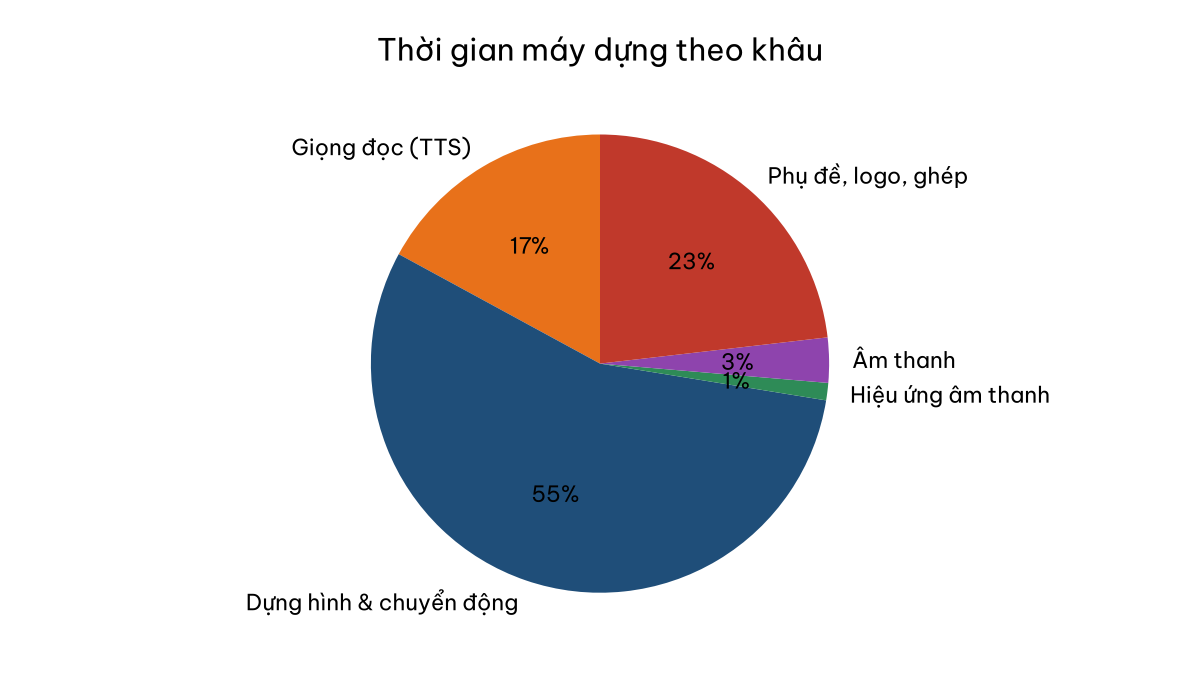
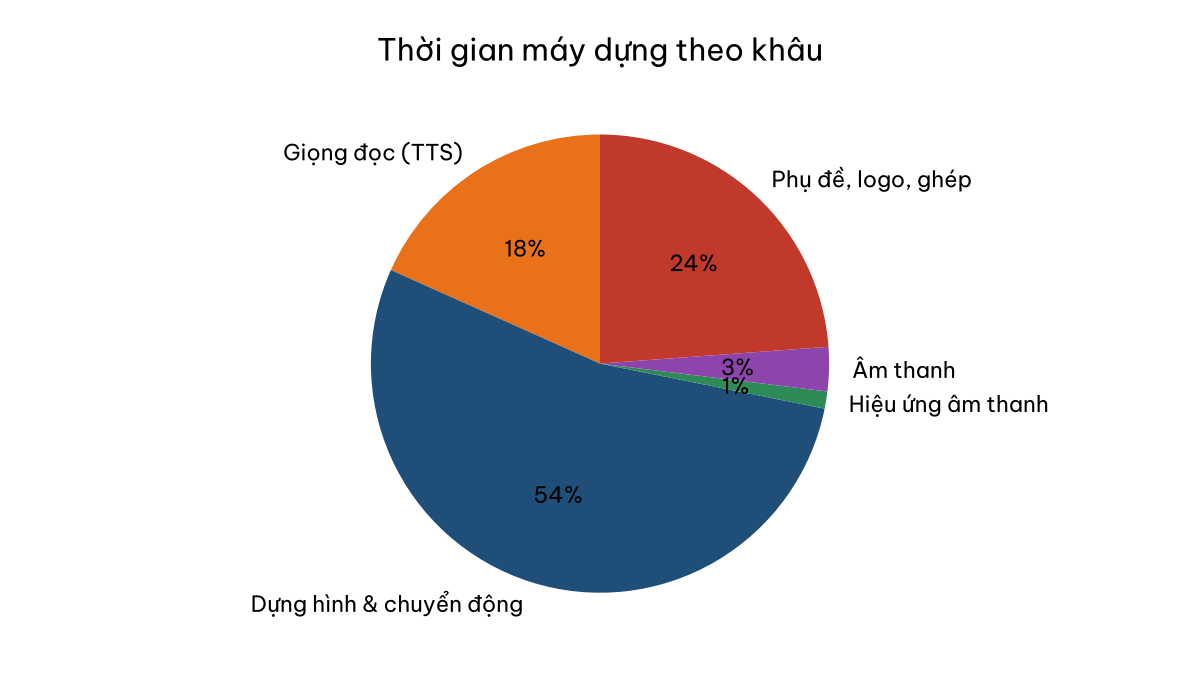
Nhật ký Vibe Coding phiên 6 (dòng 18–23): tải ảnh Gemini bằng thẻ riêng, chuyển sang ChatGPT khi hết lượt, ra lệnh KlingAI; cập nhật số liệu sản xuất
Claude-Session: https://claude.ai/code/session_01XUaCeG6RmrTP1nxBNNZ2CP

diff --git a/docs/vibe-coding/nhat-ky.md b/docs/vibe-coding/nhat-ky.md
@@ -144,3 +144,9 @@ và 11 tiếng giao diện (tích theo nốt ngũ cung cho trục thời gian, b
 | 15 | Cảnh tư liệu không tìm được ảnh có giấy phép mở (ảnh chỉ có trong SGK) | Không được chép hình SGK vào video | Viết thẻ "Ảnh tư liệu trong sách giáo khoa": vẽ bằng code, ghi ảnh đó là gì và chỉ học sinh mở đúng bài, đúng hình, đúng trang |
 | 16 | Tải ảnh Gemini về máy để dựng cảnh tái hiện | Chrome chặn từ lần tải thứ hai (chặn tải nhiều tệp tự động), kể cả khi đã thêm trang vào danh sách cho phép | Dừng thử lại sau 3 lần, ghi lại để thầy kiểm tra cài đặt; ảnh đã tải được thì lưu và đánh dấu "Đã có ảnh" trong bảng Kling |
 | 17 | Điền 127 lời nhắc Kling còn thiếu vào bảng tính đang dùng chung | Ghi đè cả cột có thể xoá ghi chú của thầy; thứ tự dòng trong bảng đã khác bản dựng lại | Dựng lại đúng thứ tự cũ để dò số dòng, chỉ chép vào 8 khối ô còn trống, giữ nguyên các ô khác |
+| 18 | Kiểm tra khung hình video vừa dựng có ảnh tư liệu | Ảnh tư liệu khổ rộng chạm vào logo ở góc trên phải | Tự hạ khung ảnh xuống dưới vùng logo khi ảnh rộng; dựng lại 30 khung và 6 video bị ảnh hưởng |
+| 19 | Sửa chỗ dừng giữa chừng của hàng đợi dựng video | Sau khi sửa tệp nhật ký bằng lệnh `sed -i`, hàng đợi ghi tiếp vào tệp cũ đã bị thay nên không thấy chữ "xong" và dựng lại một tập nhiều lần | Viết hàng đợi mới tự mở tệp nhật ký để ghi mỗi lần, dựng lại danh sách từ thời điểm ghi tệp video |
+| 20 | Bị Wikimedia chặn với lỗi "không theo chính sách robot" | Chuỗi nhận diện chương trình (User-Agent) thiếu địa chỉ liên hệ đầy đủ | Đọc chính sách, sửa User-Agent có đường dẫn https tới kho mã của dự án; tải lại được ngay |
+| 21 | Tải nhiều ảnh Gemini liên tiếp từ một khung chat | Chrome vẫn chặn khi bấm tải ở thẻ đang gửi lời nhắc; mở lại khung chat thì chỉ hiện khoảng 10 lượt cuối và có lúc tải nhầm ảnh của cảnh khác | Tách hai thẻ: một thẻ gửi lời nhắc, một thẻ chỉ để tải bằng bấm chuột thật; trước khi lưu, đọc lại chữ "Cảnh:" của lời nhắc ngay trên ảnh và so dung lượng tệp để bắt ảnh trùng |
+| 22 | Gemini hết lượt tạo ảnh trong ngày | Theo dặn của thầy chuyển sang ChatGPT, nhưng ChatGPT đặt tên tệp theo nội dung ảnh nên lệnh chờ tệp mới không nhận ra | Viết lệnh chờ mới nhận mọi tệp ảnh vừa xuất hiện sau một mốc thời gian; gói miễn phí chỉ được 3 ảnh/ngày, không bấm dùng thử gói trả phí |
+| 23 | Ra lệnh cho KlingAI biến ảnh tái hiện thành clip chuyển động | Ô chọn tệp không nhận đường dẫn trong máy dựng; nút Tạo đôi khi chỉ đóng bảng cài đặt; clip Diên Hồng có đoạn hai bạn dẫn chuyện hô theo các bô lão | Đưa ảnh qua thư mục Tải về của máy thầy rồi gửi lên; kiểm tra thông báo "Task submitted" trước khi bấm lại; cắt clip còn 2,5 giây đầu để hai bạn dẫn chuyện chỉ quan sát, giữ bản gốc để đối chiếu |

diff --git a/data/thong_ke/du_an.md b/data/thong_ke/du_an.md
@@ -1,5 +1,5 @@
 # Thống kê dự án EduHistory Studio
-Cập nhật 15/11/2026 18:00 (tự động từ kho mã, tools/thong_ke_du_an.py)
+Cập nhật 15/11/2026 18:27 (tự động từ kho mã, tools/thong_ke_du_an.py)
 
 ## danh_muc
 - so_tap: 359
@@ -29,22 +29,22 @@ Cập nhật 15/11/2026 18:00 (tự động từ kho mã, tools/thong_ke_du_an.p
 
 ## hinh_anh
 - anh_canh: 52
-- anh_tu_lieu_that: 148
+- anh_tu_lieu_that: 149
 - clip_ai: 17
 - clip_kling_da_tai: 17
 - clip_gemini: 1
 - bang_thiet_ke_nhan_vat: 10
 
 ## video
-- so_video_v1: 48
-- tong_giay: 5444.3
+- so_video_v1: 51
+- tong_giay: 5901.7
 
 ## san_xuat
-- so_lan_dung_ghi_nhat_ky: 166
-- so_tap_ghi: 58
-- phut_may_tren_phut_video: 2.39
-- giay_may_trung_binh_moi_tap: 294.8
-- phan_bo_khau_s: {'giong_doc_s': 2955.1, 'dung_hinh_s': 9581.5, 'sfx_s': 211.5, 'am_thanh_s': 549.4, 'ghep_cuoi_s': 4010.3}
+- so_lan_dung_ghi_nhat_ky: 169
+- so_tap_ghi: 61
+- phut_may_tren_phut_video: 2.43
+- giay_may_trung_binh_moi_tap: 302.9
+- phan_bo_khau_s: {'giong_doc_s': 3423.4, 'dung_hinh_s': 10012.5, 'sfx_s': 226.1, 'am_thanh_s': 582.4, 'ghep_cuoi_s': 4456.0}
 
 ## am_thanh
 - hieu_ung_su_kien: 34
@@ -60,12 +60,12 @@ Cập nhật 15/11/2026 18:00 (tự động từ kho mã, tools/thong_ke_du_an.p
 - so_trang_tap: 221
 
 ## ma_nguon
-- python_dong: 13403
+- python_dong: 13410
 - python_tep: 85
 - js_dong: 4936
 - js_tep: 156
-- html_css_dong: 3885
-- so_commit: 35
+- html_css_dong: 3888
+- so_commit: 36
 - so_phien_nhat_ky_vibe_coding: 6
 - so_dong_nhat_ky_loi_va_sua: 87
 
